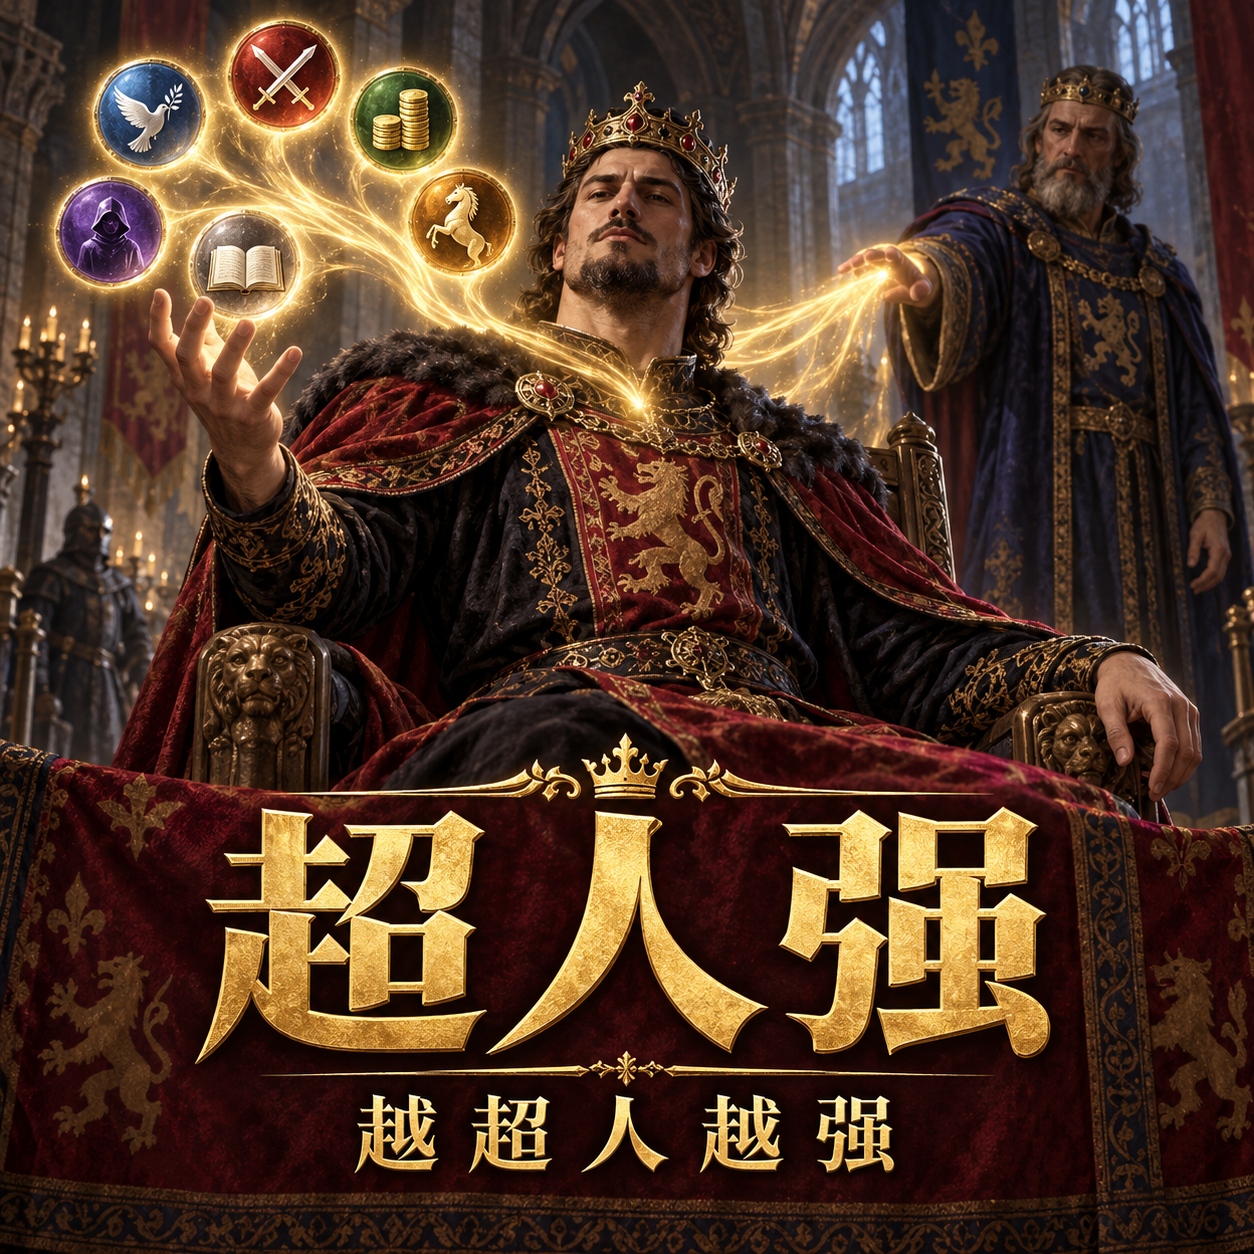
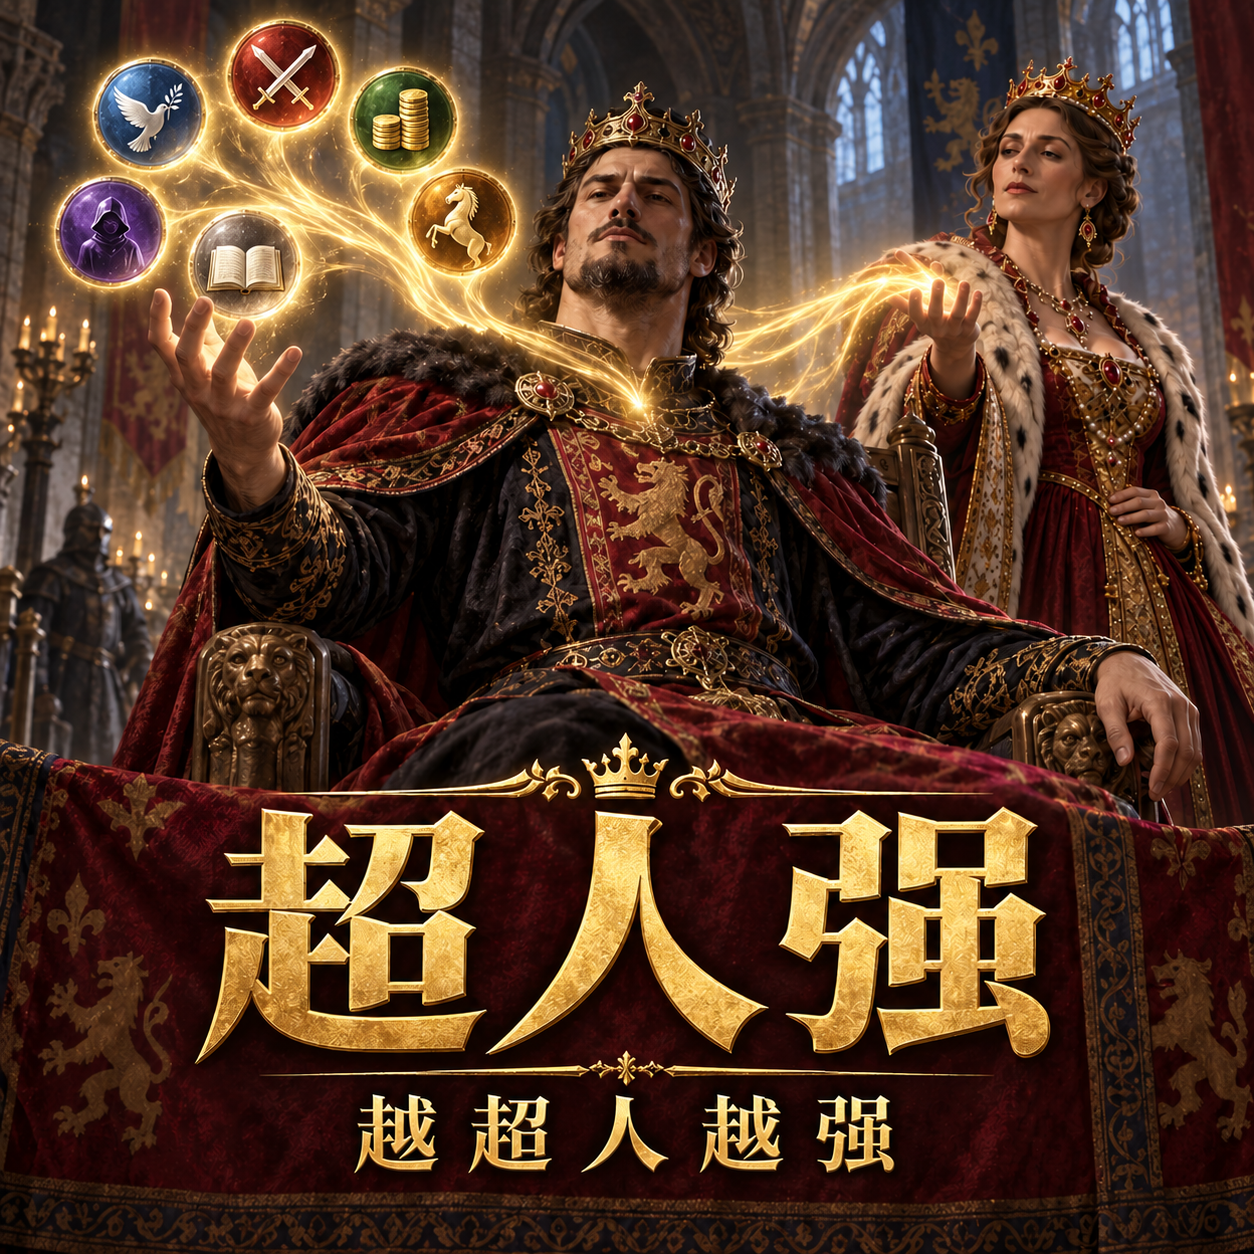
Match Superman Qiang cover to king and queen and support media release tags

diff --git a/tools/independent_mod_release.py b/tools/independent_mod_release.py
@@ -13,6 +13,7 @@ import hashlib
 import json
 from pathlib import Path, PurePosixPath
 import re
+import subprocess
 import tempfile
 from typing import Iterable
 import zipfile
@@ -59,6 +60,7 @@ class ProductSpec:
     runtime_files: frozenset[str] | Iterable[str]
     upstream_item_id: str | None
     tag_prefix: str
+    release_tag_aliases: frozenset[str] | Iterable[str] = frozenset()
 
     def __post_init__(self) -> None:
         if not isinstance(self.product_id, str) or PRODUCT_ID.fullmatch(self.product_id) is None:
@@ -70,6 +72,11 @@ class ProductSpec:
                 raise ValueError("upstream_item_id exceeds uint64")
         if not isinstance(self.tag_prefix, str) or not self.tag_prefix or any(c.isspace() for c in self.tag_prefix):
             raise ValueError("tag_prefix must be a nonempty string without whitespace")
+        if isinstance(self.release_tag_aliases, (str, bytes)):
+            raise ValueError("release_tag_aliases must be an explicit collection of tags")
+        aliases = tuple(self.release_tag_aliases)
+        if any(not isinstance(tag, str) or not tag or any(c.isspace() for c in tag) for tag in aliases):
+            raise ValueError("release_tag_aliases must contain nonempty strings without whitespace")
         if isinstance(self.runtime_files, (str, bytes)):
             raise ValueError("runtime_files must be an explicit collection of relative paths")
         paths = tuple(_relative_path(path) for path in self.runtime_files)
@@ -81,6 +88,7 @@ class ProductSpec:
             raise ValueError("README.md, docs and tools are source-only")
         object.__setattr__(self, "source", Path(self.source))
         object.__setattr__(self, "runtime_files", frozenset(paths))
+        object.__setattr__(self, "release_tag_aliases", frozenset(aliases))
 
 
 def sha256_bytes(data: bytes) -> str:
@@ -182,6 +190,29 @@ def product_tag(spec: ProductSpec, version: str) -> str:
     return spec.tag_prefix + version
 
 
+def _validate_tag(spec: ProductSpec, version: str, tag: str | None) -> None:
+    if tag is not None and tag != product_tag(spec, version) and tag not in spec.release_tag_aliases:
+        raise ValueError("git_tag does not match the product version or an explicit release tag alias")
+
+
+def _verify_alias_revision(spec: ProductSpec, tag: str | None, revision: str, *, require_head: bool = False) -> None:
+    if tag not in spec.release_tag_aliases:
+        return
+    try:
+        tag_revision = subprocess.run(
+            ["git", "-C", str(spec.source), "rev-parse", "--verify", f"refs/tags/{tag}^{{commit}}"],
+            check=True, capture_output=True, text=True,
+        ).stdout.strip()
+        head_revision = subprocess.run(
+            ["git", "-C", str(spec.source), "rev-parse", "HEAD"],
+            check=True, capture_output=True, text=True,
+        ).stdout.strip() if require_head else revision
+    except (OSError, subprocess.CalledProcessError) as error:
+        raise ValueError("release tag alias cannot be resolved in the product source repository") from error
+    if tag_revision != revision or head_revision != revision:
+        raise ValueError("release tag alias does not match source revision and HEAD")
+
+
 def build(
     spec: ProductSpec,
     output: Path,
@@ -197,8 +228,8 @@ def build(
         raise ValueError("revision must be a full lowercase Git commit SHA")
     item = _item_id(workshop_item_id, spec.upstream_item_id)
     version = descriptor_version(spec.source)
-    if git_tag not in {None, product_tag(spec, version)}:
-        raise ValueError("git_tag does not match the product version")
+    _validate_tag(spec, version, git_tag)
+    _verify_alias_revision(spec, git_tag, revision, require_head=True)
     source = spec.source.resolve()
     if _link(Path(output)):
         raise ValueError("build output must not be a link")
@@ -274,12 +305,12 @@ def load_manifest(spec: ProductSpec, manifest_path: Path) -> dict[str, object]:
     version = payload["mod_version"]
     if not isinstance(version, str) or VERSION.fullmatch(version) is None:
         raise ValueError("manifest mod version is invalid")
-    if payload["git_tag"] is not None and (
-        not isinstance(payload["git_tag"], str) or payload["git_tag"] != product_tag(spec, version)
-    ):
+    if payload["git_tag"] is not None and not isinstance(payload["git_tag"], str):
         raise ValueError("manifest Git tag is invalid")
+    _validate_tag(spec, version, payload["git_tag"])
     if not isinstance(payload["git_sha"], str) or REVISION.fullmatch(payload["git_sha"]) is None:
         raise ValueError("manifest Git revision is invalid")
+    _verify_alias_revision(spec, payload["git_tag"], payload["git_sha"])
     _item_id(payload["workshop_item_id"], spec.upstream_item_id)
     entries = payload["files"]
     if not isinstance(entries, list):

diff --git a/tools/test_independent_mod_release.py b/tools/test_independent_mod_release.py
@@ -6,6 +6,7 @@ from __future__ import annotations
 from dataclasses import replace
 import json
 from pathlib import Path
+import subprocess
 import tempfile
 import unittest
 import zipfile
@@ -43,6 +44,20 @@ class IndependentModReleaseTests(unittest.TestCase):
 
     def build(self, name: str = "build"):
         return release.build(self.spec, self.root / name / self.spec.product_id, REVISION, "3809999999")
+
+    def git(self, *arguments: str) -> str:
+        return subprocess.run(
+            ["git", "-C", str(self.root), *arguments], check=True, capture_output=True, text=True,
+        ).stdout.strip()
+
+    def initialize_tagged_alias(self, alias: str) -> str:
+        self.git("init")
+        self.git("add", "source")
+        self.git("-c", "user.name=ReleaseFixture", "-c", "user.email=release-fixture@example.invalid",
+                 "commit", "-m", "Initial release fixture")
+        revision = self.git("rev-parse", "HEAD")
+        self.git("tag", alias)
+        return revision
 
     def test_production_projection_and_archive_have_only_reviewed_runtime(self) -> None:
         staging, manifest, archive, payload = self.build()
@@ -162,6 +177,52 @@ class IndependentModReleaseTests(unittest.TestCase):
             with self.subTest(paths=paths):
                 with self.assertRaises(ValueError):
                     replace(self.spec, runtime_files=paths)
+
+    def test_explicit_release_alias_builds_and_verifies_its_actual_tag(self) -> None:
+        alias = "maintained-media-v2"
+        self.spec = replace(self.spec, release_tag_aliases={alias})
+        revision = self.initialize_tagged_alias(alias)
+        staging, manifest, archive, payload = release.build(
+            self.spec, self.root / "alias", revision, "3809999999", git_tag=alias,
+        )
+        self.assertEqual(payload["git_tag"], alias)
+        self.assertEqual(payload["git_sha"], revision)
+        self.assertEqual(release.verify_manifest(self.spec, staging, manifest), 4)
+        canonical = release.build(self.spec, self.root / "canonical", revision, "3809999999", git_tag="maintained-v1.0.0")
+        self.assertEqual(archive.read_bytes(), canonical[2].read_bytes())
+
+    def test_unknown_release_alias_is_rejected_by_build_and_manifest(self) -> None:
+        self.spec = replace(self.spec, release_tag_aliases={"maintained-media-v2"})
+        with self.assertRaisesRegex(ValueError, "git_tag"):
+            release.build(self.spec, self.root / "unknown", REVISION, git_tag="maintained-media-v3")
+        self.assertFalse((self.root / "unknown").exists())
+        staging, manifest, _, payload = self.build()
+        manifest.write_text(json.dumps({**payload, "git_tag": "maintained-media-v3"}), encoding="utf-8")
+        with self.assertRaisesRegex(ValueError, "git_tag"):
+            release.verify_manifest(self.spec, staging, manifest)
+
+    def test_release_alias_rejects_wrong_tag_commit_and_source_head(self) -> None:
+        alias = "maintained-media-v2"
+        self.spec = replace(self.spec, release_tag_aliases={alias})
+        revision = self.initialize_tagged_alias(alias)
+        staging, manifest, _, payload = release.build(self.spec, self.root / "alias", revision, git_tag=alias)
+        self.write("README.md", b"A later source-only edit\n")
+        self.git("add", "source/README.md")
+        self.git("-c", "user.name=ReleaseFixture", "-c", "user.email=release-fixture@example.invalid",
+                 "commit", "-m", "Later source revision")
+        later_revision = self.git("rev-parse", "HEAD")
+        for supplied_revision in (revision, later_revision):
+            with self.subTest(revision=supplied_revision):
+                output = self.root / supplied_revision
+                with self.assertRaisesRegex(ValueError, "release tag alias does not match"):
+                    release.build(self.spec, output, supplied_revision, git_tag=alias)
+                self.assertFalse(output.exists())
+        # A historical staging remains verifiable after the checkout advances;
+        # its manifest must still name the actual immutable alias commit.
+        self.assertEqual(release.verify_manifest(self.spec, staging, manifest), 4)
+        manifest.write_text(json.dumps({**payload, "git_sha": later_revision}), encoding="utf-8")
+        with self.assertRaisesRegex(ValueError, "release tag alias does not match"):
+            release.verify_manifest(self.spec, staging, manifest)
 
 
 if __name__ == "__main__":

diff --git a/mod_superman_qiang/tools/product.py b/mod_superman_qiang/tools/product.py
@@ -12,6 +12,7 @@ PRODUCT_KEY = "superman-qiang"
 VERSION = "1.0.0"
 GAME_VERSION = "1.20.0.3"
 TAG_PREFIX = "superman-qiang-v"
+RELEASE_TAG_ALIASES = frozenset({"superman-qiang-media-v2"})
 LANGUAGES = ("english", "simp_chinese", "french", "german", "japanese", "korean", "polish", "russian", "spanish")
 
 # Explicit, immutable release inventory; filled from the reviewed runtime
@@ -46,4 +47,4 @@ def spec():
     sys.path.insert(0, str(REPO / "tools"))
     from independent_mod_release import ProductSpec
 
-    return ProductSpec(PRODUCT_ID, SOURCE, RUNTIME_FILES, None, TAG_PREFIX)
+    return ProductSpec(PRODUCT_ID, SOURCE, RUNTIME_FILES, None, TAG_PREFIX, release_tag_aliases=RELEASE_TAG_ALIASES)

diff --git a/mod_superman_qiang/docs/key-art.md b/mod_superman_qiang/docs/key-art.md
@@ -1,36 +1,21 @@
-# 《超人强》工坊封面
+# 《超人强》当前工坊封面
 
-2026-10-04 使用 Codex 内置 `image_gen.imagegen` 生成原创主视觉。画面为成年中世纪统治者与象征六项属性的能量转移，角色均穿着完整服装；标题为“超人强”，副标题为“越超人越强”。未使用既有同名动画人物或其形象。
+2026-10-04 按用户要求，将首发封面的背景成年男性替换为与三张新横幅一致的成年王后。当前主体为一位成年国王与一位成年王后，王后面容在640缩略图中清晰可辨；完整服装、六技能符号、金色力量流转、中文标题“超人强”及副标题“越超人越强”保留。
 
-原图和 640×640 缩略图均已直接审阅：两行简体中文准确可读，六项属性符号完整，未出现额外文字或水印。此图是宣传封面；实机验收及工坊媒体截图另行记录。
+这是一张原创宣传插画。使用内置 `image_gen` 编辑，未使用API/CLI fallback。完整实际提示词、编辑目标/参考图角色、生成路径及字节身份见 [来源记录](../../images/superman_qiang_cover_v2/provenance.json)。root直接审阅1254源图与精确640发布PNG，见 [审阅记录](../../images/superman_qiang_cover_v2/root-review.json)。
 
-| 文件 | 尺寸 | 字节数 | SHA-256 |
-| --- | --- | --- | --- |
[2 lines of base64/hex data omitted]
+| 当前文件 | 尺寸 | bytes | SHA-256 |
+|---|---|---:|---|
[2 lines of base64/hex data omitted]
 
-缩略图只能通过 [`tools/compose_superman_qiang_key_art.py`](../../tools/compose_superman_qiang_key_art.py) 从源图生成：转换为 RGB，以 Pillow LANCZOS 居中投影到 640×640，保存优化的 PNG，`compress_level=9`。脚本拒绝大于或等于 1,000,000 字节的输出。
-
-```text
-tools\.venv\Scripts\python.exe tools\compose_superman_qiang_key_art.py
-tools\.venv\Scripts\python.exe tools\compose_superman_qiang_key_art.py --check
-```
-
-`--check` 已通过，证明仓库缩略图与重建结果逐字节相同。构建器应只将缩略图收入正式 staging，不携带源图、生成提示词或外置过程素材。
-
-内置工具原始输出永久保留于 `C:/Users/1/.codex/generated_images/01a10325-ec45-72c0-a0c5-787c69cd3f00/exec-afd3b9e1-97e6-43be-a55f-8354ed2c3b5f.png`。独立过程副本、完整提示词和 JSON 元数据保留于 `D:/ck3-experience-drain-feasibility-20261004/superman-key-art-20261004/`。
-
-## 最终生成提示词
+正式缩略图只由现有 [composer](../../tools/compose_superman_qiang_key_art.py) 生成：RGB、居中ImageOps.fit/LANCZOS、优化PNG、compress_level9，严格小于1,000,000 bytes。canonical文件已实际生成，`--check`逐字节通过；不手改生成PNG。
 
 ```text
-Use case: ads-marketing
-Asset type: square Steam Workshop cover for an original Crusader Kings III mod.
-Primary request: Create a polished original medieval fantasy key art showing an exceptionally powerful adult ruler receiving a flowing stream of symbolic attribute energy from another fully clothed adult ruler.
-Scene/backdrop: a shadowed medieval great hall with a throne and subtle carved stone arches.
-Subject: a confident adult ruler in richly embroidered crimson and black court clothes, a restrained gold crown, a strong human face, and a raised hand gathering six small luminous symbolic orbs representing diplomacy, warfare, stewardship, intrigue, learning, and prowess. The adult donor is a secondary figure in the background, clothed in medieval court dress; show only a symbolic energy transfer. All people are clearly over 25.
-Style/medium: elegant detailed painterly historical fantasy illustration, substantial realism, bold cinematic poster composition, excellent craft and readable forms at thumbnail size.
-Composition/framing: square 1:1 composition. Main ruler occupies the upper two thirds. Reserve the lower third for a very large, crisp, correctly spelled Simplified Chinese title. No UI screenshot elements.
-Lighting/mood: warm golden energy contrasts with deep crimson and midnight blue. Confident, powerful, slightly playful heroic mood.
-Text (verbatim): "超人强" as the large headline in the lower third, elegant bold gold Chinese lettering, exact three characters, crisp and legible. Directly below it, smaller but clearly readable text: "越超人越强". Render only these two text strings, no book-title brackets.
-Constraints: This is entirely original medieval human character artwork. No cartoon pig, no animated television character likeness, no contemporary superhero costume, no existing superhero logo, no sexual act, no nudity, no erotic pose, no violence, no watermark, no extra text. The image must remain dignified and suitable for a public game Workshop cover.
+tools\.venv\Scripts\python.exe tools/compose_superman_qiang_key_art.py
+tools\.venv\Scripts\python.exe tools/compose_superman_qiang_key_art.py --check
 ```
+
+首发旧1254源及640副本、旧输入和完整生成过程保留于 `C:/ck3-superman-qiang-media-redo-20261004/cover-P0001/history/`，亦可从原不可变tag `superman-qiang-v1.0.0` 取回。[首发文档快照](key-art-initial-1.0.0.md)按该历史tag解释，其旧路径不代表本次新文件身份。旧tag及原GitHub附件不修改。
+
+本次正式staging重新构建，仍为22文件：仅thumbnail字节变化，其余21文件必须与首发验收包逐字节相同。实际公开封面回读随展示修订发布报告记录，生成或审图通过不表示已经上传。

diff --git a/mod_superman_qiang/docs/key-art-initial-1.0.0.md b/mod_superman_qiang/docs/key-art-initial-1.0.0.md
@@ -1,0 +1,36 @@
+# 《超人强》工坊封面
+
+2026-10-04 使用 Codex 内置 `image_gen.imagegen` 生成原创主视觉。画面为成年中世纪统治者与象征六项属性的能量转移，角色均穿着完整服装；标题为“超人强”，副标题为“越超人越强”。未使用既有同名动画人物或其形象。
+
+原图和 640×640 缩略图均已直接审阅：两行简体中文准确可读，六项属性符号完整，未出现额外文字或水印。此图是宣传封面；实机验收及工坊媒体截图另行记录。
+
+| 文件 | 尺寸 | 字节数 | SHA-256 |
+| --- | --- | --- | --- |
[2 lines of base64/hex data omitted]
+
+缩略图只能通过 [`tools/compose_superman_qiang_key_art.py`](../../tools/compose_superman_qiang_key_art.py) 从源图生成：转换为 RGB，以 Pillow LANCZOS 居中投影到 640×640，保存优化的 PNG，`compress_level=9`。脚本拒绝大于或等于 1,000,000 字节的输出。
+
+```text
+tools\.venv\Scripts\python.exe tools\compose_superman_qiang_key_art.py
+tools\.venv\Scripts\python.exe tools\compose_superman_qiang_key_art.py --check
+```
+
+`--check` 已通过，证明仓库缩略图与重建结果逐字节相同。构建器应只将缩略图收入正式 staging，不携带源图、生成提示词或外置过程素材。
+
+内置工具原始输出永久保留于 `C:/Users/1/.codex/generated_images/01a10325-ec45-72c0-a0c5-787c69cd3f00/exec-afd3b9e1-97e6-43be-a55f-8354ed2c3b5f.png`。独立过程副本、完整提示词和 JSON 元数据保留于 `D:/ck3-experience-drain-feasibility-20261004/superman-key-art-20261004/`。
+
+## 最终生成提示词
+
+```text
+Use case: ads-marketing
+Asset type: square Steam Workshop cover for an original Crusader Kings III mod.
+Primary request: Create a polished original medieval fantasy key art showing an exceptionally powerful adult ruler receiving a flowing stream of symbolic attribute energy from another fully clothed adult ruler.
+Scene/backdrop: a shadowed medieval great hall with a throne and subtle carved stone arches.
+Subject: a confident adult ruler in richly embroidered crimson and black court clothes, a restrained gold crown, a strong human face, and a raised hand gathering six small luminous symbolic orbs representing diplomacy, warfare, stewardship, intrigue, learning, and prowess. The adult donor is a secondary figure in the background, clothed in medieval court dress; show only a symbolic energy transfer. All people are clearly over 25.
+Style/medium: elegant detailed painterly historical fantasy illustration, substantial realism, bold cinematic poster composition, excellent craft and readable forms at thumbnail size.
+Composition/framing: square 1:1 composition. Main ruler occupies the upper two thirds. Reserve the lower third for a very large, crisp, correctly spelled Simplified Chinese title. No UI screenshot elements.
+Lighting/mood: warm golden energy contrasts with deep crimson and midnight blue. Confident, powerful, slightly playful heroic mood.
+Text (verbatim): "超人强" as the large headline in the lower third, elegant bold gold Chinese lettering, exact three characters, crisp and legible. Directly below it, smaller but clearly readable text: "越超人越强". Render only these two text strings, no book-title brackets.
+Constraints: This is entirely original medieval human character artwork. No cartoon pig, no animated television character likeness, no contemporary superhero costume, no existing superhero logo, no sexual act, no nudity, no erotic pose, no violence, no watermark, no extra text. The image must remain dignified and suitable for a public game Workshop cover.
+```

diff --git a/workshop/superman_qiang_screenshots.md b/workshop/superman_qiang_screenshots.md
@@ -2,7 +2,7 @@
 
 2026-10-04 展示修订 `1.0.0-media.1`：重做三张统一红金风格的宣传海报，替换首发经验 0 查看截图，并同步重写中文工坊介绍。图片为原创宣传插画与规则示意，均有明确标识，不声称是实机截图。上传前的图像与文字已冻结，公开回读在实际发布后补齐。
 
-工坊条目：[3812991990](https://steamcommunity.com/sharedfiles/filedetails/?id=3812991990)。原640×640封面保留。运行时仍为 `superman-qiang-v1.0.0` / `7e5ddd481466b7a9df104fd5c6340f473f909aff` 的22文件。
+工坊条目：[3812991990](https://steamcommunity.com/sharedfiles/filedetails/?id=3812991990)。封面同步改为成年国王与王后，见 [封面来源](../mod_superman_qiang/docs/key-art.md)。游戏版本仍为1.0.0，正式包重新由媒体tag构建；除thumbnail外21文件与首发验收包相同。
 
 ## 当前顺序
 
@@ -32,6 +32,8 @@ tools\.venv\Scripts\python.exe tools/compose_superman_qiang_promotional_media.py
 
 首发图已被用户否决，不再用于宣传。原PNG、JPEG、来源manifest与 [首发图片清单快照](superman_qiang_screenshots_initial_1.0.0.md) 保留作历史记录。
 
-本次同时尝试了新production-only普通战役取材，正常配偶诱惑计谋进度30%，尚未发生性行为，未取得非零经验或属性转移宣传场景。这些截图不上传。实际存档、430份原始资产索引、停止及屏幕释放记录保留于 `C:/ck3-superman-qiang-media-redo-20261004/capture-P0001/`，不将计谋启动或尚未发生的结果写成取材成功。
+本次同时尝试了新production-only普通战役取材。2026-10-04更正：P0001误点后启动的实际为谋杀计谋，界面30%是成功几率，原报告将其误记为诱惑进度。P0002后续真实`murder_outcome_reworked.0013`失败事件确认了该错误；目标存活，未发生性行为，没有非零经验或属性转移宣传结果。旧报告和全部原始素材保留并追加勘误，这些截图不上传。最初430份原始资产索引、实际存档、停止与屏幕释放记录保留于 `C:/ck3-superman-qiang-media-redo-20261004/capture-P0001/`，不将计谋启动或尚未发生的结果写成取材成功。
 
 宣传选择与中文介绍要求见 [promotional-media.md](../mod_superman_qiang/docs/promotional-media.md)，活动中文全文见 [BBCode](superman_qiang_description.bbcode)。图片与文案同次提交，发布后核对完整描述、三张CDN原图和独立Steam Change Notes。
+
+用户追加要求必须包含实机截图，正常游玩取材已在独立capture-P0002继续；选定的真实非零记录与正式顺序在素材就绪后冻结。首发XP0图不重新上传。
